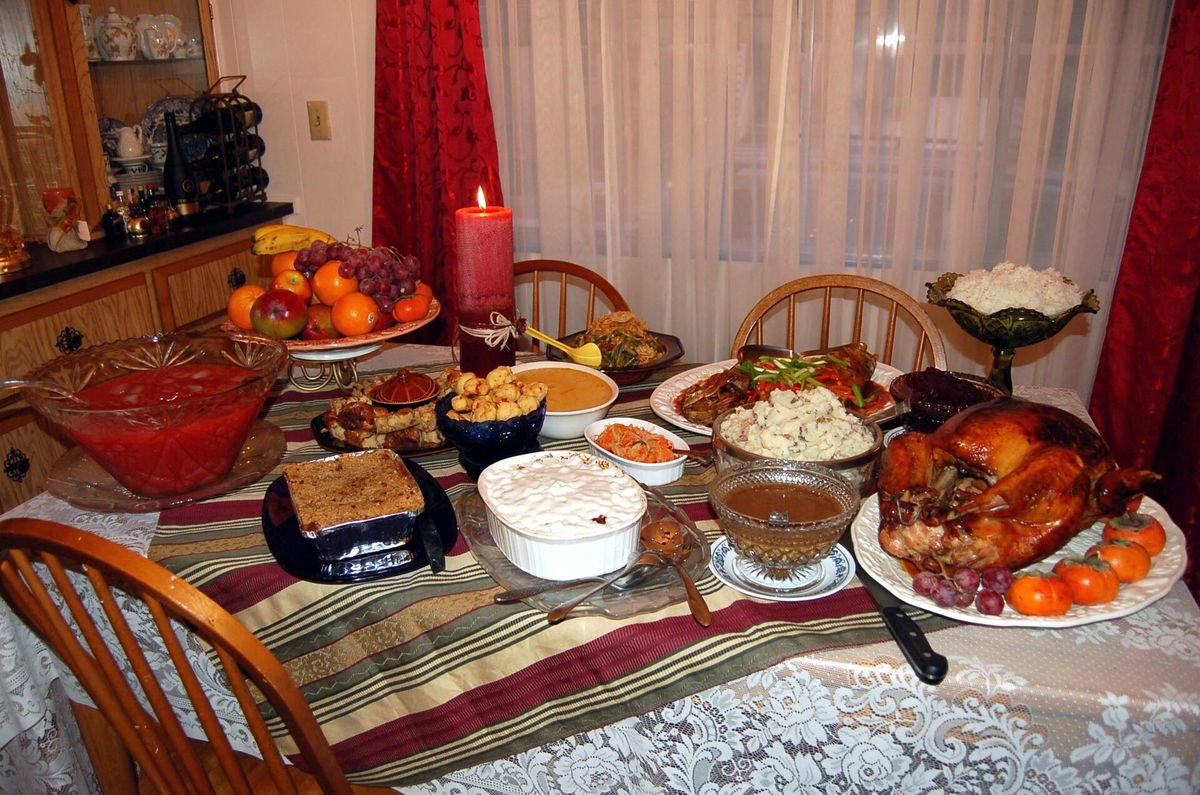
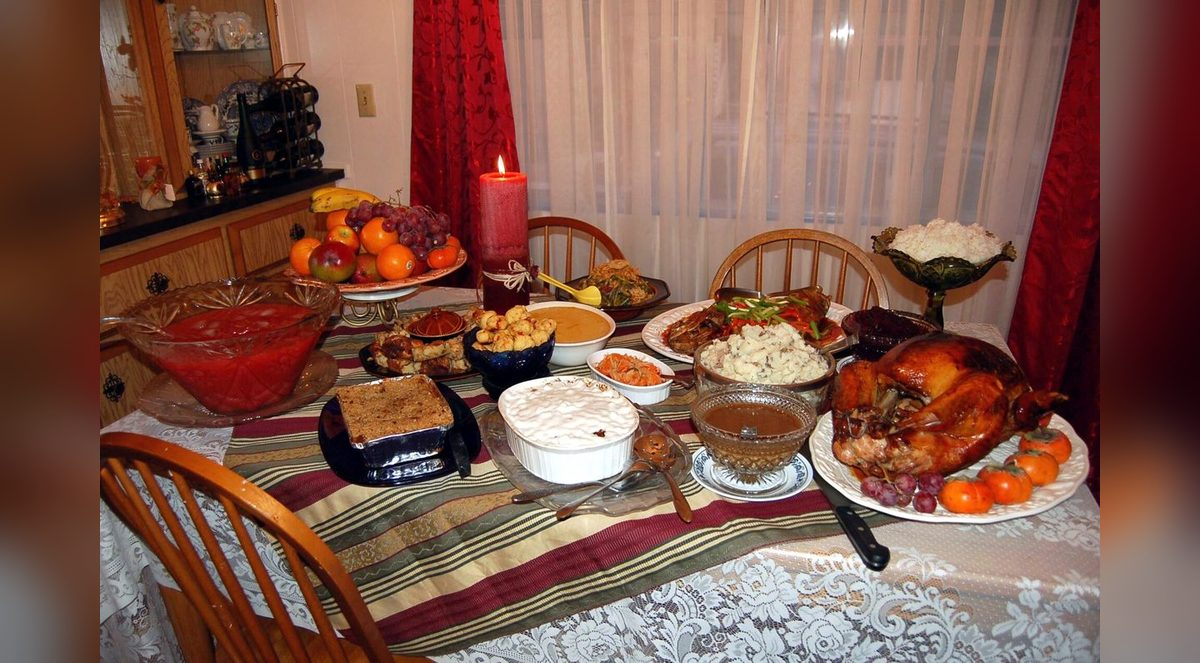
키즈신문: 사진 잘림 방지와 출처 오버레이
- 출처를 사진 왼쪽 아래 반투명 띠로 올리고 아래 캡션 줄을 없앴다.
  그만큼 사진 칸을 56mm → 68mm 로 키웠다
- 표기를 '출처 · …' 로 통일 (사진/그림 구분 없이)
- 사진을 지면 비율로 자르지 않고 전체를 보여주고(contain),
  남는 자리는 같은 사진을 흐리게 깔아 메운다. 이 처리는 이미지 파일에 미리 구워 넣었다
  (CSS 블러로 하면 인쇄 때 래스터화돼 PDF 가 1.5MB → 4.4MB 로 뛴다)
- 주제에 따라 사진과 일러스트를 나눈다. 장면은 사진, 개념은 일러스트.
  종의 기원 편은 부리 네 종류를 비교하는 일러스트로 교체했다.
  콘크리트 기둥에 앉은 새 사진으로는 '섬마다 부리가 다르다'가 드러나지 않는다

Claude-Session: https://claude.ai/code/session_0112VCa4y5uQfQ7Aw7ejqX96

diff --git a/tools/kids-weekly.html b/tools/kids-weekly.html
@@ -118,10 +118,15 @@ textarea{resize:vertical;line-height:1.6}
 .readstrip u{display:inline-block;min-width:10mm;border-bottom:1px solid #9a978c;text-decoration:none}
 .readstrip b.box{display:inline-block;width:3mm;height:3mm;border:1px solid #a9a69a;border-radius:.6mm;
   vertical-align:-.3mm;margin-right:1mm}
-.photo{width:100%;height:56mm;flex:0 0 auto;background:#f1efe8;border:1px solid #e3e0d6;border-radius:2mm;
-  display:flex;align-items:center;justify-content:center;color:#a8a496;font-size:9pt;overflow:hidden}
-.photo img{width:100%;height:100%;object-fit:cover;display:block}
-.photocap{font-size:6.6pt;color:#8d8b80;margin:1mm 0 0;line-height:1.3}
+.photo{position:relative;width:100%;height:68mm;flex:0 0 auto;background:#f1efe8;
+  border:1px solid #e3e0d6;border-radius:2mm;overflow:hidden;
+  display:flex;align-items:center;justify-content:center;color:#a8a496;font-size:9pt}
+/* 사진은 잘리지 않게 전부 보이고(contain), 남는 자리는 같은 사진을 흐리게 깔아 메운다 */
+.photo img{position:relative;display:block;width:100%;height:100%;object-fit:cover}
+.photo .src{position:absolute;left:0;bottom:0;max-width:72%;
+  background:rgba(23,23,15,.62);color:#fff;font-size:6.2pt;line-height:1.35;
+  padding:1.1mm 2.2mm;border-radius:0 2mm 0 0;word-break:keep-all}
+.photocap{display:none}
 .kicker{font-size:14pt;font-weight:900;color:#cfcabb;letter-spacing:-.01em;margin:0 0 1mm}
 .head{font-size:23pt;font-weight:900;letter-spacing:-.02em;line-height:1.18;margin:0 0 3.5mm}
 .cols{flex:1 1 auto;min-height:0;overflow:hidden;columns:3;column-gap:6mm;
@@ -2990,7 +2995,10 @@ function artHTML(d,i){
   const paras = String(d.body||"").split(/\n{2,}/).map(p=>'<p style="margin:0 0 2.6mm">'+emph(p)+'</p>').join("");
   const numrows = rows(d.nums).slice(0,3);
   const photo = d.photo
-    ? '<div class="photo"><img src="'+d.photo+'" alt=""></div>'
+    ? '<div class="photo">'
+      + '<img src="'+d.photo+'" alt="">'
+      + (d.cap ? '<div class="src">'+esc(d.cap)+'</div>' : '')
+      + '</div>'
     : '<div class="photo">사진이나 그림을 붙이는 자리</div>';
   const dt = addDays(S.week,i);
 
@@ -3004,8 +3012,7 @@ function artHTML(d,i){
    +   '<span>제 '+esc(S.issue)+'호 · '+(i+1)+'/5</span></div>'
 
    + '<div class="hero">'
-   +   '<div class="heroL">'+photo
-   +     (d.cap?'<div class="photocap">'+esc(d.cap)+'</div>':'')+'</div>'
+   +   '<div class="heroL">'+photo+'</div>'
    +   '<div class="wordside"><div class="fh">오늘의 단어<small>읽으면서 뜻을 함께 익혀요</small></div>'
    +     '<div class="fin"><p class="w">'+esc(d.w)+'</p><p class="m">'+esc(d.m)+'</p>'
    +     '<p class="ex hand">'+emph(d.ex).replace(/<em>/g,"<b>").replace(/<\/em>/g,"</b>")+'</p></div></div>'
